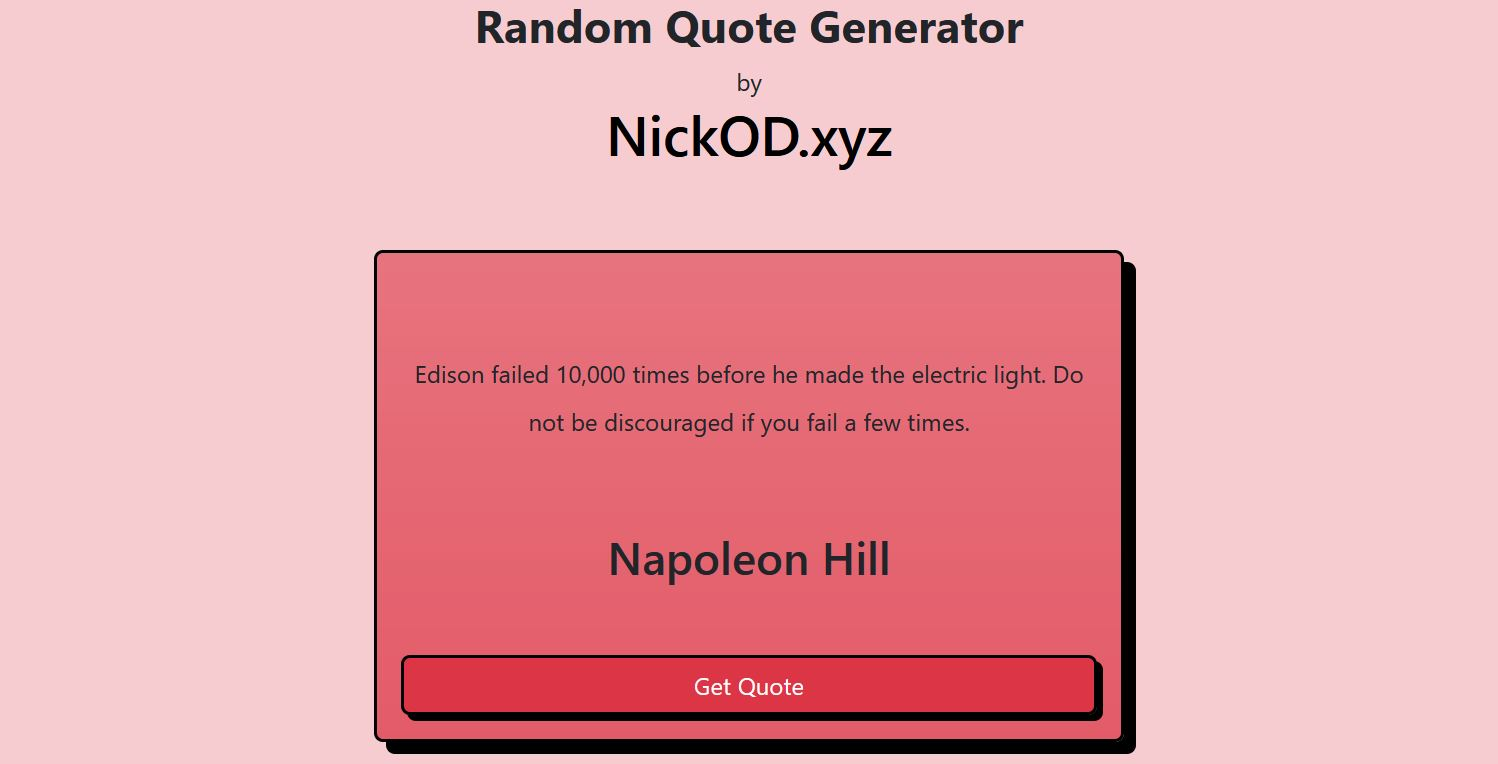
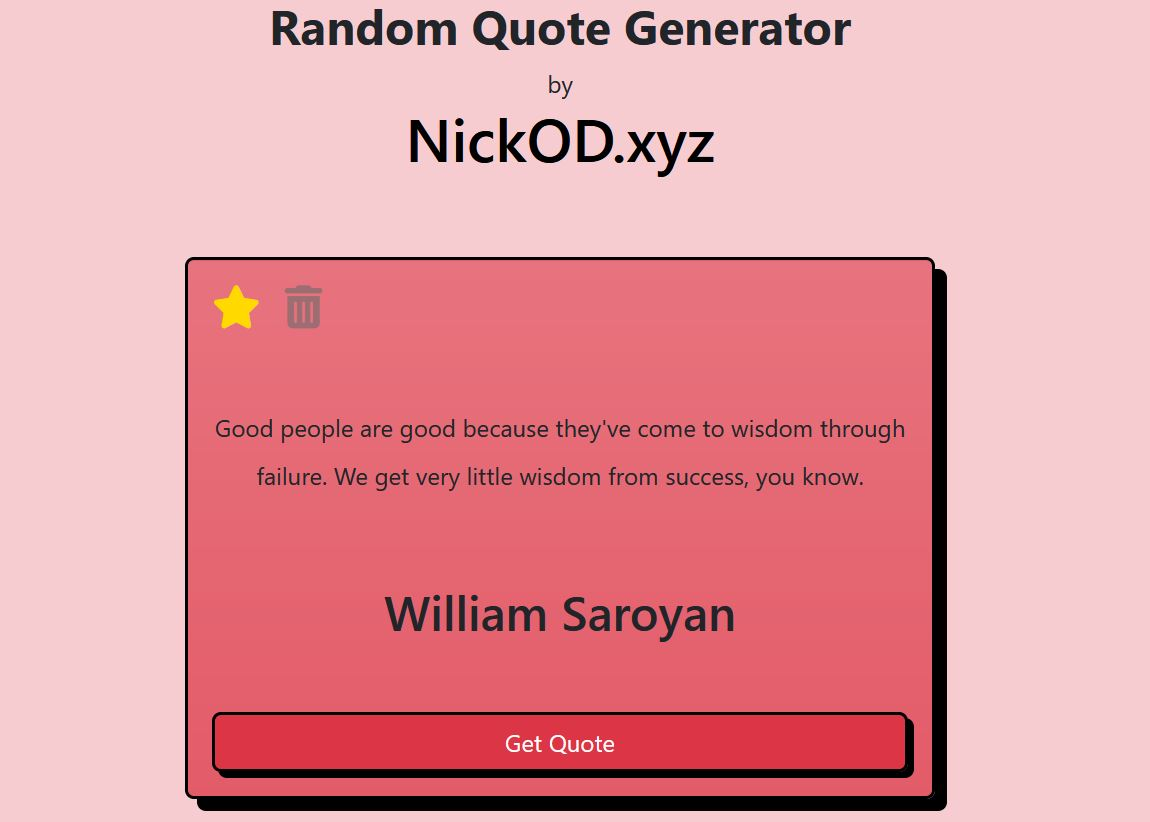
added updated screenshot of app. Finished scripts.js making sure app fully works and added comments on my work for furture reference

diff --git a/js/scripts.js b/js/scripts.js
@@ -12,7 +12,7 @@ document.addEventListener("DOMContentLoaded", () => {
     // Asynchronous function to get a new quote
     async function getQuote() {
 
-        // Using try catch
+        // Using try catch for API request
         try {
             const response = await fetch(url);
             const data = await response.json();
@@ -34,13 +34,14 @@ document.addEventListener("DOMContentLoaded", () => {
     // Event listener for button click
     btn.addEventListener("click", getQuote);
 
-    // Once page is loaded the getQuote function is called, so there will always be a quote on page
+    // Once page is loaded the getQuote function is called, so there will always be a quote on page. As well as the other function to make sure the page is working as intended
     getQuote();
     starHighlight();
     updateUI();
+    deleteFavourite();
 });
 
-// Funtion for adding favourite to localStorage
+// Funtion for adding favourite to local storage
 function addToFavourite() {
 
     // Grab DOM elements
@@ -53,39 +54,68 @@ function addToFavourite() {
     const authorText = author.textContent;
     const quoteText = quote.textContent;
 
-    // Create and update hash
+    // Create and update hash with favourite quote Author and Quote
     const favouriteHash = {};
     favouriteHash.author = authorText;
     favouriteHash.quote = quoteText;
 
-    // Create and update array
+    // Create and update array inserting hash
     const favouriteArray = [favouriteHash];
 
-    // Add to localStorage on click
+    // Add to local storage on click
     favourite.addEventListener("click", () => {
+
+        // Local storage only excepts string data, so using JSON.stringify method to add favouriteArray
         localStorage.setItem("favourite", JSON.stringify(favouriteArray));
-        star.classList.add("favourite");
+
+        // Call starHighlight() in oder for favourite css to take affect
         starHighlight();
     })
+}
+
+// Function to remove favourite from local storage
+function deleteFavourite() {
+
+    // Grab DOM element
+    const trashcan = document.querySelector(".fa-trash-can");
+
+    // on click event to delete local storage using key "favourite"
+    trashcan.addEventListener("click", () => {
+        localStorage.removeItem("favourite");
+
+        // Call starHighlight to remove favourite class from star icon
+        starHighlight()
+    });
 }
 
 // Function for highlighting star
 function starHighlight() {
 
+    // Grab DOM element
     const star = document.querySelector(".fa-star");
+
+    // Conditional logic to add or remove favourite class from star icon
     if (localStorage.length > 0) {
         star.classList.add("favourite");
+    } else {
+        star.classList.remove("favourite");
     }
-
 }
 
-// function to update UI with favourite quote if one is stored
+// Function to update UI with favourite quote if one is stored
 function updateUI() {
+
+    // If statment used with setTimeout to add users favourited quote on page load up, if one is saved in their local storage
     if (localStorage.length > 0) {
         setTimeout(() => {
+
+            // Grabbing & then parsing local storage string to JSON so the data can be used to add back to the UI
             const storedFavourite = JSON.parse(localStorage.favourite);
+
+            // Using .notation to insert the data
             quote.textContent = storedFavourite[0].quote;
             author.textContent = storedFavourite[0].author;
-        }, 500);
+
+        }, 1000);
     }
 }
